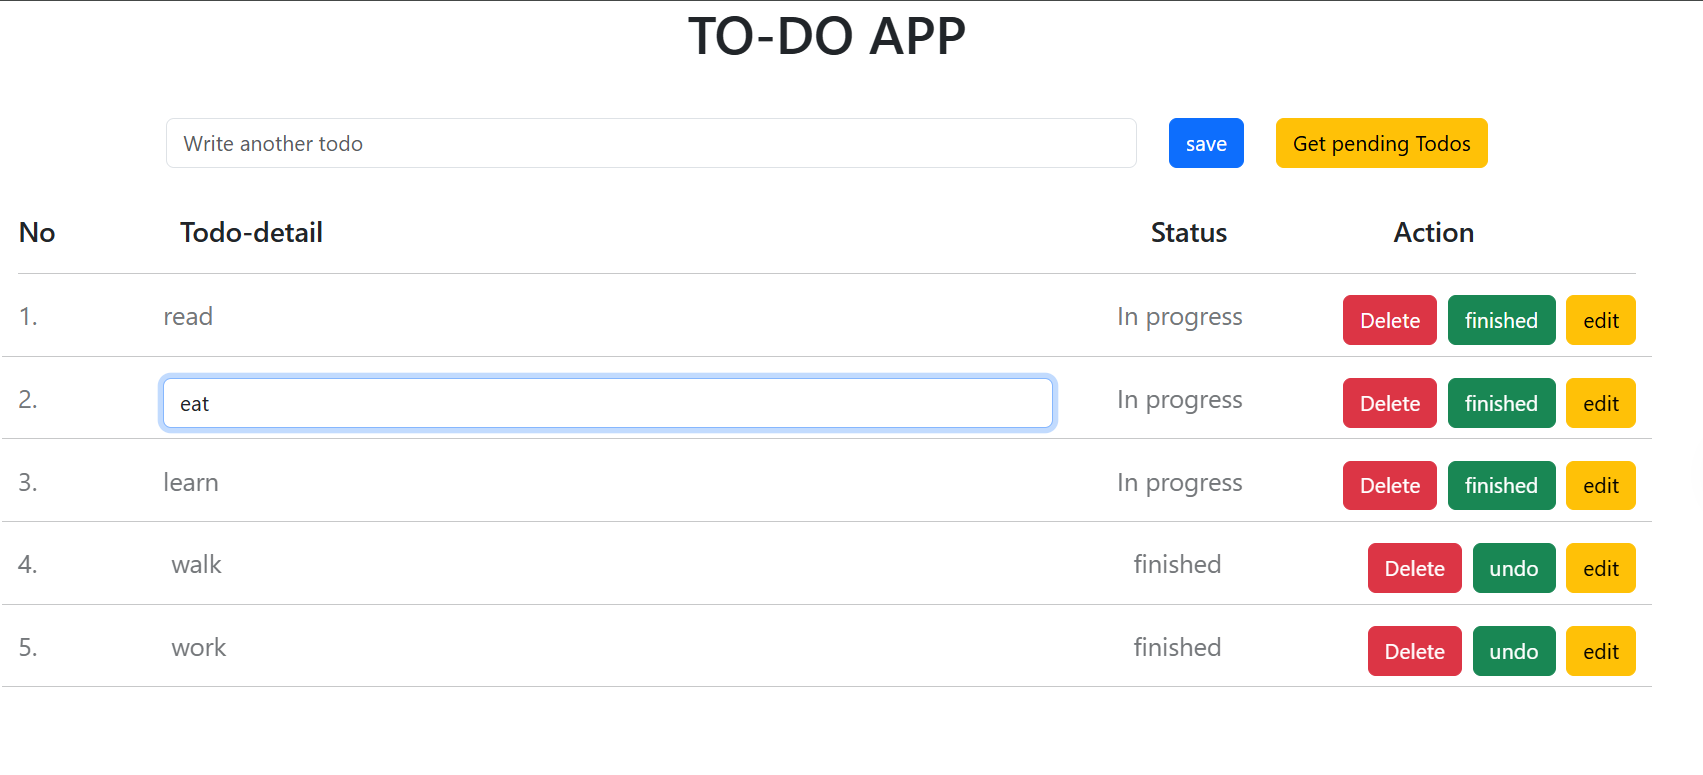
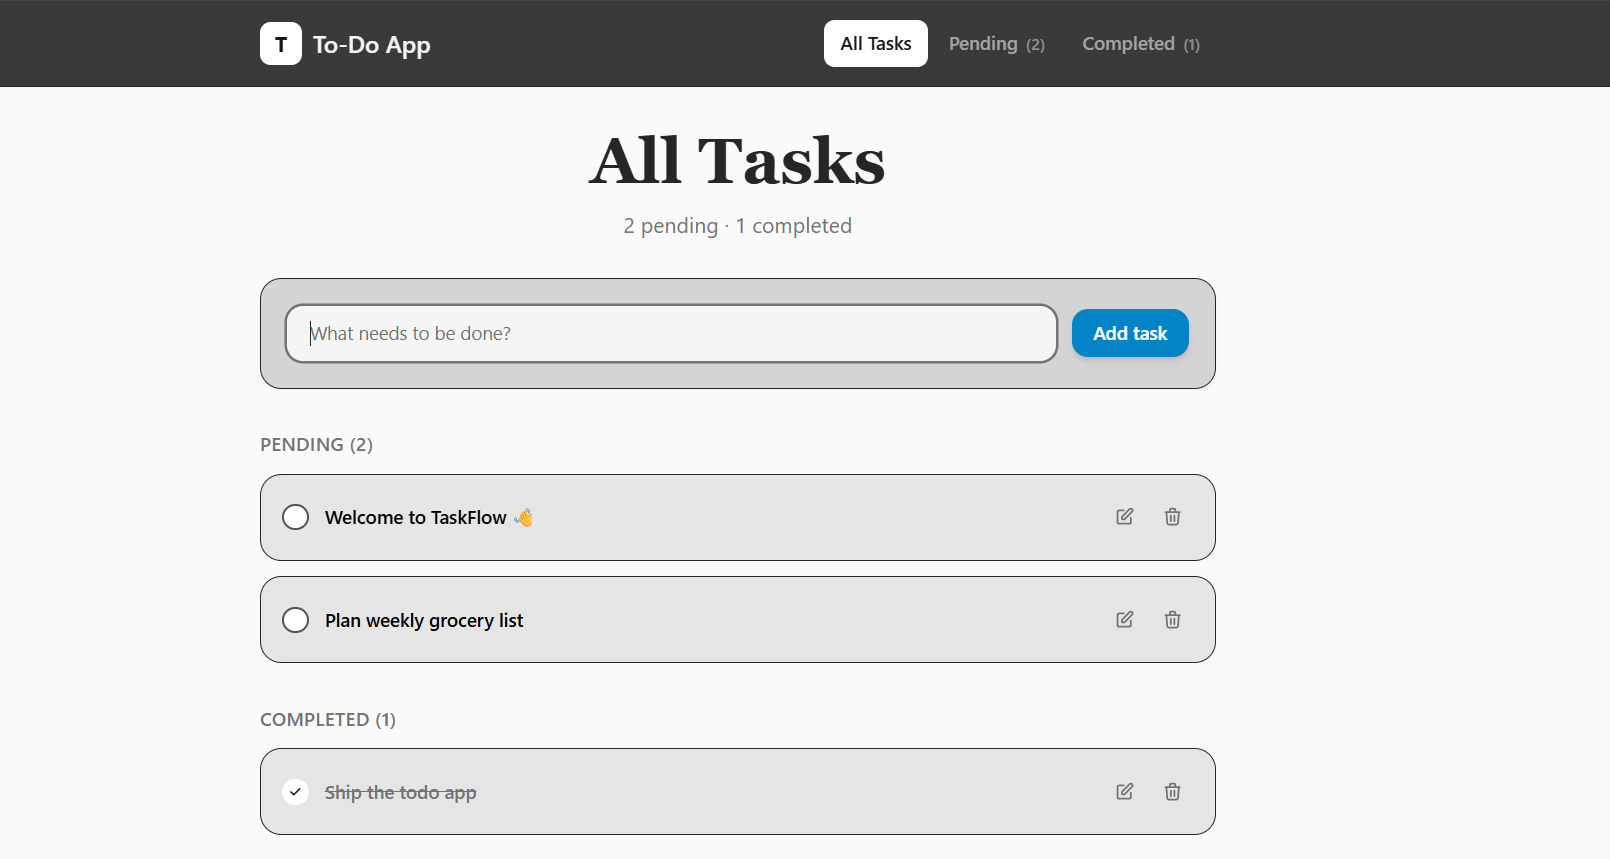
update it

diff --git a/src/components/Navbar.jsx b/src/components/Navbar.jsx
@@ -4,7 +4,7 @@ import { FiSun, FiMoon, FiMenu, FiX } from 'react-icons/fi';
 import { useTheme } from '../context/ThemeContext';
 
 const links = [
-  { id: 'home', label: 'Home' },
+  {   id: 'home', label: 'Home' },
   { id: 'about', label: 'About' },
   { id: 'skills', label: 'Skills' },
   { id: 'projects', label: 'Projects' },
@@ -52,13 +52,26 @@ export default function Navbar() {
         }`}
       >
         <nav className="mx-auto flex max-w-6xl items-center justify-between px-6 py-6 sm:px-8">
-          <button
-            onClick={() => scrollTo('home')}
-            className="font-serif text-xl font-bold tracking-tight"
-            data-cursor-hover
-          >
-            <span className="text-gradient">.</span>
-          </button>
+        <button
+  onClick={() => scrollTo("home")}
+  data-cursor-hover
+  className="flex items-center gap-3"
+>
+  <img  
+    src='/public/logo.png'
+    alt="Kusum Logo"
+    className="h-10 w-10 rounded-full object-cover"
+  />
+
+  <div className="hidden sm:block text-left">
+    <h2 className="font-display text-lg font-bold">
+      Kusum
+    </h2>
+    <p className="text-xs text-gray-500 dark:text-gray-400">
+      Frontend Developer
+    </p>
+  </div>
+</button>
 
           <ul className="hidden items-center gap-1 lg:flex">
             {links.map((l) => (

diff --git a/src/components/Hero.jsx b/src/components/Hero.jsx
@@ -61,13 +61,14 @@ export default function Hero() {
         ))}
       </div>
 
-      <div className="mx-auto grid w-full max-w-6xl gap-12 px-5 sm:px-8 lg:grid-cols-[1.1fr_0.9fr] lg:items-center">
+      <div className="mx-auto flex min-h-[80vh] w-full max-w-4xl items-center justify-center px-5 sm:px-8">
         <motion.div
           initial={{ opacity: 0, y: 30 }}
           animate={{ opacity: 1, y: 0 }}
           transition={{ duration: 0.7 }}
+          className="flex flex-col items-center text-center"
         >
-          <p className="font-mono-ui text-sm uppercase tracking-[0.2em] text-accent-purple">
+          <p className="mt-6 max-w-2xl text-base text-ink/70 dark:text-white/70 sm:text-lg">
             Hello, I'm
           </p>
           <h1 className="mt-3 text-5xl font-bold font-mono leading-[1.05] sm:text-6xl lg:text-7xl">
@@ -121,7 +122,7 @@ export default function Hero() {
             ))}
           </div>
         </motion.div>
-
+{/* 
         <motion.div
           initial={{ opacity: 0, scale: 0.9 }}
           animate={{ opacity: 1, scale: 1 }}
@@ -145,7 +146,7 @@ export default function Hero() {
             <p className="font-mono-ui text-xs text-ink/60 dark:text-white/60">Stack</p>
             <p className="font-display text-sm font-semibold">React · Tailwind</p>
           </motion.div>
-        </motion.div>
+        </motion.div> */}
       </div>
 
       <motion.button